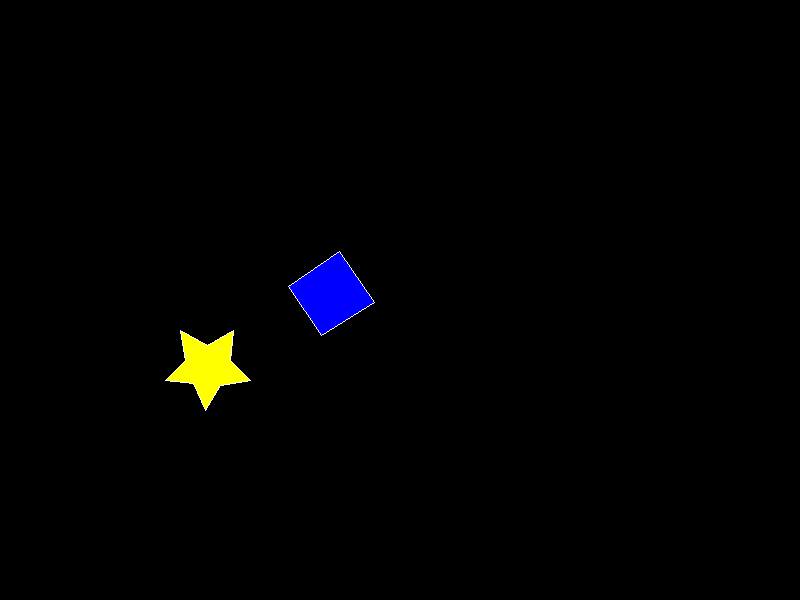
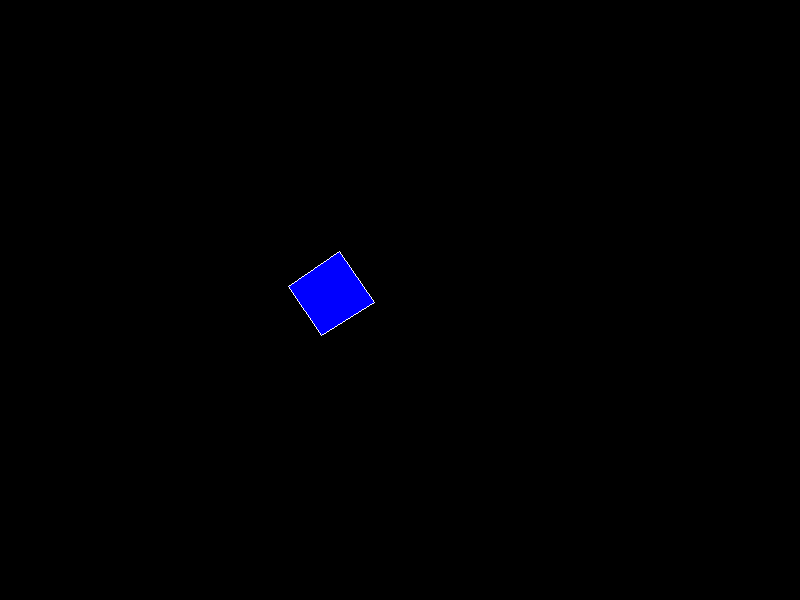
Correct only poligon in branch 2

Changed region(s): [[0.2188, 0.54, 0.3125, 0.69]]

diff --git a/src/framebuffer.rs b/src/framebuffer.rs
@@ -41,4 +41,59 @@ impl Framebuffer {
     pub fn render_to_file(&self, file_path: &str){
         self.color_buffer.export_image(file_path);
     }
+
+    pub fn render_to_bmp(&self, file_path: &str) {
+    use std::fs::File;
+    use std::io::Write;
+
+    let width = self.width as usize;
+    let height = self.height as usize;
+
+    // Cada fila debe ser múltiplo de 4 bytes
+    let row_size = (width * 3 + 3) & !3;
+    let pixel_array_size = row_size * height;
+    let file_size = 54 + pixel_array_size;
+
+    let mut file = File::create(file_path).unwrap();
+
+    // ===== BMP HEADER =====
+    file.write_all(b"BM").unwrap();
+    file.write_all(&(file_size as u32).to_le_bytes()).unwrap();
+    file.write_all(&[0u8; 4]).unwrap();
+    file.write_all(&(54u32).to_le_bytes()).unwrap();
+
+    // ===== DIB HEADER =====
+    file.write_all(&(40u32).to_le_bytes()).unwrap();
+    file.write_all(&(width as i32).to_le_bytes()).unwrap();
+    file.write_all(&(height as i32).to_le_bytes()).unwrap();
+    file.write_all(&(1u16).to_le_bytes()).unwrap();
+    file.write_all(&(24u16).to_le_bytes()).unwrap();
+    file.write_all(&(0u32).to_le_bytes()).unwrap();
+    file.write_all(&(pixel_array_size as u32).to_le_bytes()).unwrap();
+    file.write_all(&(0i32).to_le_bytes()).unwrap();
+    file.write_all(&(0i32).to_le_bytes()).unwrap();
+    file.write_all(&(0u32).to_le_bytes()).unwrap();
+    file.write_all(&(0u32).to_le_bytes()).unwrap();
+
+    // Padding por fila
+    let padding = row_size - width * 3;
+    let padding_bytes = vec![0u8; padding];
+
+    // BMP guarda las filas de abajo hacia arriba
+    for y in (0..height).rev() {
+        for x in 0..width {
+
+            let color = self.color_buffer.get_color(x as i32, y as i32);
+
+            // BMP usa BGR
+            file.write_all(&[
+                color.b,
+                color.g,
+                color.r,
+            ]).unwrap();
+        }
+
+        file.write_all(&padding_bytes).unwrap();
+    }
+}
 } 

diff --git a/src/main.rs b/src/main.rs
@@ -12,25 +12,6 @@ fn main() {
     let mut framebuffer = Framebuffer::new(800, 600, Color::BLACK);
     framebuffer.clear();
 
-    let polygon1 = [
-        Vector2::new(165.0, 380.0),
-        Vector2::new(185.0, 360.0),
-        Vector2::new(180.0, 330.0),
-        Vector2::new(207.0, 345.0),
-        Vector2::new(233.0, 330.0),
-        Vector2::new(230.0, 360.0),
-        Vector2::new(250.0, 380.0),
-        Vector2::new(220.0, 385.0),
-        Vector2::new(205.0, 410.0),
-        Vector2::new(193.0, 383.0),
-    ];
-
-    framebuffer.set_current_color(Color::YELLOW);
-    fill_polygon(&mut framebuffer, &polygon1);
-
-    framebuffer.set_current_color(Color::WHITE);
-    draw_polygon(&mut framebuffer, &polygon1);
-
     let polygon2 = [
         Vector2::new(321.0, 335.0),
         Vector2::new(288.0, 286.0),
@@ -45,4 +26,5 @@ fn main() {
     draw_polygon(&mut framebuffer, &polygon2);
 
     framebuffer.render_to_file("out.png");
+    framebuffer.render_to_bmp("out.bmp");
 }